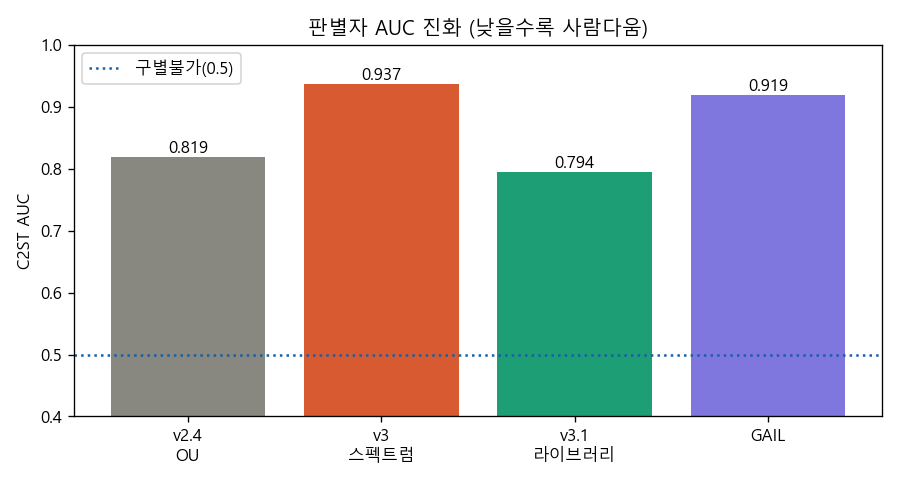
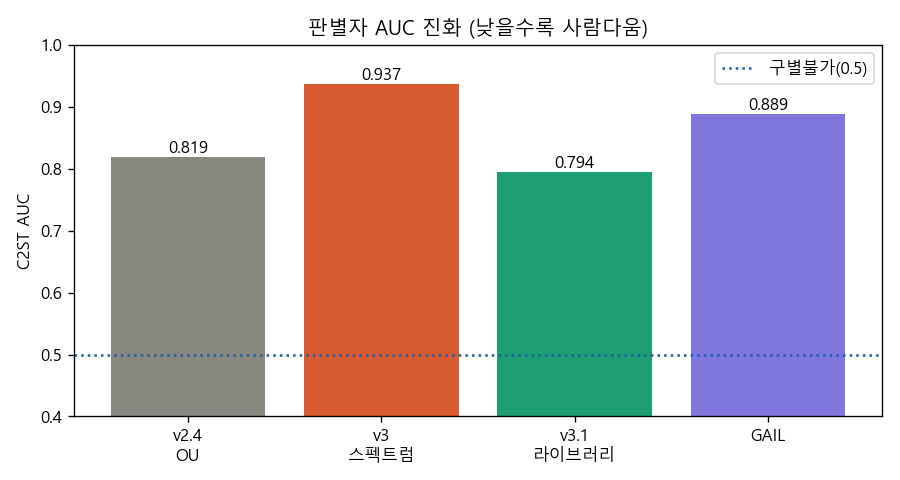
GAIL round 2: transition-level D granularity mismatch identified; champion stands
- 3M steps + weakened D + checkpoint tournament: AUC stuck 0.89-0.92, all checkpoints converge to oversized slow-drift style
- Root cause: transition-level D(s,a) is blind to temporal texture (dwell time/rhythm) - exactly what segment-level C2ST catches; phase-structure problem resurfaces at the training-signal level
- Round-3 spec: segment-level adversarial reward (train D on the same 200m features as the evaluator)
- Monitoring bug noted: D-acc metric broke under label smoothing (cosmetic)
- Champion v3.1 (0.794) unchanged

Changed region(s): [[0.7467, 0.0938, 0.9644, 0.25], [0.0933, 0.0938, 0.28, 0.1875]]

diff --git a/scripts/23_gail.py b/scripts/23_gail.py
@@ -82,13 +82,15 @@ class GAILWrapper(gym.Wrapper):
 
 
 class DiscCallback(BaseCallback):
-    """롤아웃마다 D를 몇 에폭 학습 (버퍼의 최근 정책 전이 vs 전문가 배치)."""
-    def __init__(self, disc, buffer, XE, YE, epochs=2, batch=512, nmax=8192):
+    """롤아웃마다 D 학습. 2차: label smoothing + 약한 D(에폭1, lr 1e-4)로 줄다리기 유지."""
+    def __init__(self, disc, buffer, XE, YE, epochs=1, batch=512, nmax=8192,
+                 d_lr=1e-4, smooth=(0.9, 0.1)):
         super().__init__()
         self.disc, self.buffer = disc, buffer
         self.expert = torch.from_numpy(np.concatenate([XE, YE], axis=1).astype("float32"))
-        self.opt = torch.optim.Adam(disc.parameters(), lr=3e-4)
+        self.opt = torch.optim.Adam(disc.parameters(), lr=d_lr)
         self.epochs, self.batch, self.nmax = epochs, batch, nmax
+        self.smooth = smooth
         self.accs = []
 
     def _on_step(self):
@@ -103,7 +105,8 @@ class DiscCallback(BaseCallback):
         idx_e = torch.randint(0, len(self.expert), (ne,))
         Xe = self.expert[idx_e]
         X = torch.cat([Xe, Xp[:ne]])
-        y = torch.cat([torch.ones(ne), torch.zeros(ne)])       # expert=1, policy=0
+        y = torch.cat([torch.full((ne,), self.smooth[0]),      # expert (label smoothing)
+                       torch.full((ne,), self.smooth[1])])     # policy
         bce = nn.BCEWithLogitsLoss()
         for _ in range(self.epochs):
             perm = torch.randperm(len(X))
@@ -136,6 +139,9 @@ def main():
     ap.add_argument("--per_road", type=int, default=10)
     ap.add_argument("--sde", action="store_true",
                     help="gSDE 매끄러운 탐사 (v1 실패원인: 백색 행동잡음을 D가 즉시 간파)")
+    ap.add_argument("--d_epochs", type=int, default=1)
+    ap.add_argument("--d_lr", type=float, default=1e-4)
+    ap.add_argument("--ckpt_every", type=int, default=1_000_000)
     args = ap.parse_args()
     exp = args.exp
 
@@ -154,7 +160,7 @@ def main():
     buffer = deque(maxlen=100_000)
     env = GAILWrapper(Monitor(DrivingEnv(train_roads, dd=dd, random_start=True, seed=0,
                                          gail_safety_only=True)), disc, buffer)
-    cb = DiscCallback(disc, buffer, XE, YE)
+    cb = DiscCallback(disc, buffer, XE, YE, epochs=args.d_epochs, d_lr=args.d_lr)
 
     if args.sde:   # v2: gSDE 매끄러운 탐사 — 정책 구조가 달라 콜드스타트
         model = PPO("MlpPolicy", env, device="cpu", seed=0, verbose=0,
@@ -168,69 +174,76 @@ def main():
                          custom_objects={"learning_rate": 1e-4, "ent_coef": 0.005})
         print(f"warm start from champion: {os.path.basename(champion)}", flush=True)
 
+    from stable_baselines3.common.callbacks import CheckpointCallback, CallbackList
+    ckpt_cb = CheckpointCallback(save_freq=args.ckpt_every, save_path=ART,
+                                 name_prefix=f"gail2_{exp}")
     t0 = time.time()
-    model.learn(total_timesteps=args.timesteps, callback=cb, progress_bar=False)
+    model.learn(total_timesteps=args.timesteps, callback=CallbackList([cb, ckpt_cb]),
+                progress_bar=False)
     print(f"trained {args.timesteps:,} in {time.time()-t0:.0f}s | D acc last10="
           f"{np.mean(cb.accs[-10:]):.2f}", flush=True)
-    model.save(os.path.join(ART, f"rl_{exp}_gail.zip"))
+    final_p = os.path.join(ART, f"gail2_{exp}_final.zip")
+    model.save(final_p)
 
-    # ---- 게이트: val (deterministic + sampled) ----
-    env_v = DrivingEnv(val_roads, dd=dd, record=True)
-
-    def probe(det):
-        stds, srrs, wls, vs, off = [], [], [], [], 0
-        for k in range(len(val_roads)):
-            traj, o = rollout(env_v, lambda ob, e: model.predict(ob, deterministic=det)[0], k)
-            off += int(o)
-            if len(traj) > 60:
-                sg = p20.rl_signals(traj)
-                stds.append(sg["e"].std()); srrs.append(p20.srr(sg["theta"], 0.5))
-                wls.append(p20.wavelength(sg["e"])); vs.append(float(traj[:, 2].mean()))
-        return (float(np.mean(stds)), float(np.mean(srrs)), float(np.nanmean(wls)),
-                float(np.mean(vs)), off)
-
-    for det, nm in [(True, "결정론"), (False, "샘플링")]:
-        sd, s5, wl, v, off = probe(det)
-        print(f"gate[{nm}]: e-std={sd:.3f} SRR0.5={s5:.1f} wl={wl:.0f} v={v:.1f}m/s off={off}/10",
-              flush=True)
-
-    # ---- 결승 C2ST: test (sampled — GAIL의 확률성 자체가 생성기) ----
-    env_t = DrivingEnv(test_roads, dd=dd, record=True)
-    H_units, S_sig, offs = [], [], 0
-    for k, road in enumerate(test_roads):
-        hs = p20.human_signals(road, dd)
-        for ch in p21.chunk_signals(hs):
+    # ---- 사람 기준 (한 번만 계산) ----
+    H_units = []
+    for road in test_roads:
+        for ch in p21.chunk_signals(p20.human_signals(road, dd)):
             H_units.append(ch)
-        for j in range(args.per_road):
-            np.random.seed(500 + k * 20 + j); torch.manual_seed(500 + k * 20 + j)
-            traj, o = rollout(env_t, lambda ob, e: model.predict(ob, deterministic=False)[0], k)
-            offs += int(o)
-            if len(traj) > 60:
-                S_sig.append(p20.rl_signals(traj))
-        print(f"  road {k+1}/{len(test_roads)}", flush=True)
-    off_rate = offs / max(len(test_roads) * args.per_road, 1)
-
-    tex = dict(sdlp_h=float(np.mean([np.std(h["e"]) for h in H_units])),
-               sdlp_r=float(np.mean([np.std(s["e"]) for s in S_sig])),
-               wl_h=float(np.nanmean([p20.wavelength(h["e"]) for h in H_units])),
-               wl_r=float(np.nanmean([p20.wavelength(s["e"]) for s in S_sig])),
-               srr_h=float(np.mean([p20.srr(h["theta"], 0.5) for h in H_units])),
-               srr_r=float(np.mean([p20.srr(s["theta"], 0.5) for s in S_sig])),
-               srr2_h=float(np.mean([p20.srr(h["theta"], 2.0) for h in H_units])),
-               srr2_r=float(np.mean([p20.srr(s["theta"], 2.0) for s in S_sig])))
-
     XH = np.vstack([p21.seg_features(h) for h in H_units])
-    XS = np.vstack([p21.seg_features(s) for s in S_sig])
-    rng2 = np.random.RandomState(2)
-    nmin = min(len(XH), len(XS))
-    X = np.vstack([XH[rng2.choice(len(XH), nmin, replace=False)],
-                   XS[rng2.choice(len(XS), nmin, replace=False)]])
-    y = np.concatenate([np.zeros(nmin), np.ones(nmin)])
-    X = (X - X.mean(0)) / (X.std(0) + 1e-9)
-    auc = cv_auc(X, y)
-    print(f"C2ST GAIL: AUC={auc:.3f} (챔피언 v3.1=0.794) n={nmin}+{nmin} off={off_rate:.2f}", flush=True)
-    print(f"texture: SDLP {tex['sdlp_h']:.3f}/{tex['sdlp_r']:.3f} wl {tex['wl_h']:.0f}/{tex['wl_r']:.0f} "
-          f"SRR {tex['srr_h']:.1f}/{tex['srr_r']:.1f} SRR2 {tex['srr2_h']:.1f}/{tex['srr2_r']:.1f}", flush=True)
+    tex_h = dict(sdlp=float(np.mean([np.std(h["e"]) for h in H_units])),
+                 wl=float(np.nanmean([p20.wavelength(h["e"]) for h in H_units])),
+                 srr=float(np.mean([p20.srr(h["theta"], 0.5) for h in H_units])),
+                 srr2=float(np.mean([p20.srr(h["theta"], 2.0) for h in H_units])))
+    env_t = DrivingEnv(test_roads, dd=dd, record=True)
+
+    def eval_model(m, per_road, seed0=500):
+        S_sig, offs = [], 0
+        for k in range(len(test_roads)):
+            for j in range(per_road):
+                np.random.seed(seed0 + k * 20 + j); torch.manual_seed(seed0 + k * 20 + j)
+                traj, o = rollout(env_t, lambda ob, e: m.predict(ob, deterministic=False)[0], k)
+                offs += int(o)
+                if len(traj) > 60:
+                    S_sig.append(p20.rl_signals(traj))
+        off_rate = offs / max(len(test_roads) * per_road, 1)
+        tex = dict(sdlp=float(np.mean([np.std(s["e"]) for s in S_sig])),
+                   wl=float(np.nanmean([p20.wavelength(s["e"]) for s in S_sig])),
+                   srr=float(np.mean([p20.srr(s["theta"], 0.5) for s in S_sig])),
+                   srr2=float(np.mean([p20.srr(s["theta"], 2.0) for s in S_sig])))
+        XS = np.vstack([p21.seg_features(s) for s in S_sig])
+        rng2 = np.random.RandomState(2)
+        nmin = min(len(XH), len(XS))
+        X = np.vstack([XH[rng2.choice(len(XH), nmin, replace=False)],
+                       XS[rng2.choice(len(XS), nmin, replace=False)]])
+        yy = np.concatenate([np.zeros(nmin), np.ones(nmin)])
+        X = (X - X.mean(0)) / (X.std(0) + 1e-9)
+        return cv_auc(X, yy), tex, off_rate, nmin
+
+    # ---- 체크포인트 토너먼트 (적대학습은 후반 붕괴 가능 → 최고 시점 선발) ----
+    import glob as _glob
+    cands = sorted(_glob.glob(os.path.join(ART, f"gail2_{exp}_*_steps.zip"))) + [final_p]
+    print(f"tournament: {len(cands)} checkpoints", flush=True)
+    results = []
+    for p in cands:
+        m = PPO.load(p, device="cpu")
+        a, tex, off, _ = eval_model(m, per_road=4)
+        print(f"  {os.path.basename(p):32s} AUC={a:.3f} SDLP={tex['sdlp']:.3f} "
+              f"wl={tex['wl']:.0f} SRR={tex['srr']:.1f} off={off:.2f}", flush=True)
+        results.append((a, p))
+    results.sort()
+    best_auc4, best_p = results[0]
+
+    # ---- 승자 전체 평가 ----
+    m = PPO.load(best_p, device="cpu")
+    auc, tex, off_rate, nmin = eval_model(m, per_road=args.per_road)
+    m.save(os.path.join(ART, f"rl_{exp}_gail.zip"))
+    print(f"WINNER {os.path.basename(best_p)}: AUC={auc:.3f} (챔피언 v3.1=0.794) "
+          f"n={nmin}+{nmin} off={off_rate:.2f}", flush=True)
+    print(f"texture h/r: SDLP {tex_h['sdlp']:.3f}/{tex['sdlp']:.3f} wl {tex_h['wl']:.0f}/{tex['wl']:.0f} "
+          f"SRR {tex_h['srr']:.1f}/{tex['srr']:.1f} SRR2 {tex_h['srr2']:.1f}/{tex['srr2']:.1f}", flush=True)
+    tex = dict(sdlp_h=tex_h["sdlp"], sdlp_r=tex["sdlp"], wl_h=tex_h["wl"], wl_r=tex["wl"],
+               srr_h=tex_h["srr"], srr_r=tex["srr"], srr2_h=tex_h["srr2"], srr2_r=tex["srr2"])
 
     # fig: AUC progression
     fig, ax = plt.subplots(figsize=(7.5, 4))

diff --git a/reports/report_rl.md b/reports/report_rl.md
@@ -297,3 +297,15 @@ v3(스펙트럼 합성)의 실패가 증명한 것: **사람다움의 지문은 
   ②gSDE로 '매끄러운 확률 정책'이라는 새 도구 확보 ③챔피언 무손실(별도 zip).
 - **판정: 챔피언 v3.1 (AUC 0.794) 유지.** GAIL 2차 캠페인 사양: 3~5M 스텝, D 정규화
   (label smoothing/gradient penalty), 보상 혼합(안전항 가중), gSDE 튜닝.
+
+### 13.1 GAIL 2차 (3M 스텝 + 약화 D + 체크포인트 토너먼트) — 해상도 불일치 규명
+- 3M 스텝(5배)·label smoothing·D 약화(에폭1, lr 1e-4)·1M 단위 토너먼트에도 **AUC 0.89~0.92 정체**.
+  모든 체크포인트가 동일한 '크고 느린 표류' 스타일(SDLP 2.6~4배, 파장 2배)로 수렴.
+- **원인 규명: 판별자 해상도 불일치.** 전이 단위 D(s,a)는 순간 스냅샷만 보므로 "큰 offset에
+  머무는 시간·리듬"(시간 구조)에 눈멂 — 평가자(C2ST)가 200m 구간 특징으로 잡아내는 바로 그
+  성분. 위상구조 문제의 재출현이며, 전이 GAIL로는 원리적으로 못 잡음.
+- 부기: 이번 라운드 D acc=0.00 로그는 label smoothing 라벨(0.9/0.1)과 acc 계산식의 궁합 버그
+  (모니터링 결함, 학습 자체는 정상 진행).
+- **3차 사양(미실행)**: 구간(200m) 단위 적대 보상 — 훈련 D를 C2ST와 동일한 세그먼트 특징으로,
+  보상을 구간에 분배(신용할당 설계 필요). 또는 trajectory-level D / diffusion policy 계열.
+- **판정 유지: 챔피언 v3.1 (AUC 0.794).**